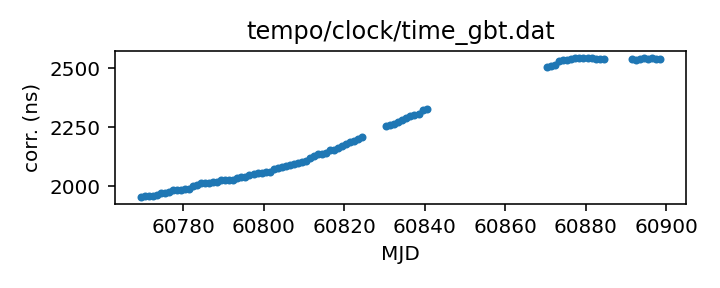
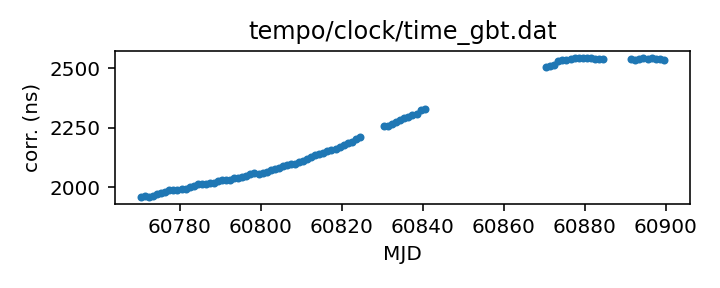
Routine gh-pages update from Github action Wed Aug 13 20:43:59 UTC 2025

diff --git a/status.md b/status.md
@@ -13,18 +13,18 @@ name of each clock file links to a page with more details.
 
 | Name | File | Corrections start | Corrections end | Last check date | Last check result 
 |:--- |:--- | --- | --- | --- |:--- 
-| [GPS to UTC](T2runtime/clock/gps2utc.clk.html) | `T2runtime/clock/gps2utc.clk` | 1993-01-01 MJD 48988.0 | 2025-07-28 MJD 60884.0 | 2025-08-12 | Unchanged 
-| [GPS to UTC (Combined Clock)](T2runtime/clock/gps2utc_cc.clk.html) | `T2runtime/clock/gps2utc_cc.clk` | 1993-01-01 MJD 48988.0 | 2025-07-28 MJD 60884.0 | 2025-08-12 | Unchanged 
-| [GPS to UTC (Corrected)](T2runtime/clock/gps2utc_c0p.clk.html) | `T2runtime/clock/gps2utc_c0p.clk` | 2010-12-29 MJD 55559.0 | 2025-07-28 MJD 60884.0 | 2025-08-12 | Unchanged 
-| [GBT](tempo/clock/time_gbt.dat.html) | `tempo/clock/time_gbt.dat` | 2000-12-31 MJD 51909.5 | 2025-08-11 MJD 60898.5 | 2025-08-12 | Updated 
-| [GBT (TEMPO2 converted from TEMPO)](T2runtime/clock/gbt2gps.clk.html) | `T2runtime/clock/gbt2gps.clk` | 2000-12-31 MJD 51909.5 | 2024-05-18 MJD 60448.5 | 2025-08-12 | **Validation failed** 
+| [GPS to UTC](T2runtime/clock/gps2utc.clk.html) | `T2runtime/clock/gps2utc.clk` | 1993-01-01 MJD 48988.0 | 2025-07-28 MJD 60884.0 | 2025-08-13 | Unchanged 
+| [GPS to UTC (Combined Clock)](T2runtime/clock/gps2utc_cc.clk.html) | `T2runtime/clock/gps2utc_cc.clk` | 1993-01-01 MJD 48988.0 | 2025-07-28 MJD 60884.0 | 2025-08-13 | Unchanged 
+| [GPS to UTC (Corrected)](T2runtime/clock/gps2utc_c0p.clk.html) | `T2runtime/clock/gps2utc_c0p.clk` | 2010-12-29 MJD 55559.0 | 2025-07-28 MJD 60884.0 | 2025-08-13 | Unchanged 
+| [GBT](tempo/clock/time_gbt.dat.html) | `tempo/clock/time_gbt.dat` | 2000-12-31 MJD 51909.5 | 2025-08-12 MJD 60899.5 | 2025-08-13 | Updated 
+| [GBT (TEMPO2 converted from TEMPO)](T2runtime/clock/gbt2gps.clk.html) | `T2runtime/clock/gbt2gps.clk` | 2000-12-31 MJD 51909.5 | 2024-05-18 MJD 60448.5 | 2025-08-13 | **Validation failed** 
 | [Jodrell Bank](T2runtime/clock/jb2gps.clk.html) | `T2runtime/clock/jb2gps.clk` | 2006-10-13 MJD 54021.4 | 2024-11-07 MJD 60621.0 | 2025-08-11 | Unchanged 
 | [Jodrell Bank Roach](T2runtime/clock/jbroach2jb.clk.html) | `T2runtime/clock/jbroach2jb.clk` | 2006-10-13 MJD 54021.4 | 2018-03-20 MJD 58197.6 | 2025-08-11 | Unchanged 
 | [Jodrell Bank DFB](T2runtime/clock/jbdfb2jb.clk.html) | `T2runtime/clock/jbdfb2jb.clk` | 2006-10-13 MJD 54021.4 | 2021-02-22 MJD 59268.0 | 2025-08-11 | Unchanged 
 | [Meerkat (observatory)](T2runtime/clock/mk2utc_observatory.clk.html) | `T2runtime/clock/mk2utc_observatory.clk` | 2019-01-01 MJD 58484.0 | 2025-08-01 MJD 60889.0 | 2025-08-11 | Updated 
-| [Leap seconds](tempo/clock/leap.sec.html) | `tempo/clock/leap.sec` | 1972-07-01 MJD 41499.0 | 2017-01-01 MJD 57754.0 | 2025-08-12 | Unchanged 
-| [UT1 table](tempo/clock/ut1.dat.html) | `tempo/clock/ut1.dat` | 1973-01-02 MJD 41684.0 | 2026-08-15 MJD 61267.0 | 2025-08-12 | Unchanged 
-| [UT1 table](T2runtime/clock/ut1.dat.html) | `T2runtime/clock/ut1.dat` | 1973-01-02 MJD 41684.0 | 2026-08-15 MJD 61267.0 | 2025-08-12 | Unchanged 
+| [Leap seconds](tempo/clock/leap.sec.html) | `tempo/clock/leap.sec` | 1972-07-01 MJD 41499.0 | 2017-01-01 MJD 57754.0 | 2025-08-13 | Unchanged 
+| [UT1 table](tempo/clock/ut1.dat.html) | `tempo/clock/ut1.dat` | 1973-01-02 MJD 41684.0 | 2026-08-15 MJD 61267.0 | 2025-08-13 | Unchanged 
+| [UT1 table](T2runtime/clock/ut1.dat.html) | `T2runtime/clock/ut1.dat` | 1973-01-02 MJD 41684.0 | 2026-08-15 MJD 61267.0 | 2025-08-13 | Unchanged 
 
 
 

diff --git a/T2runtime/clock/gbt2gps.clk.md b/T2runtime/clock/gbt2gps.clk.md
@@ -25,12 +25,11 @@ If questions arise about the conversion, contact Anne Archibald
 | Clock file start | 2000-12-31 MJD 51909.5 |
 | Clock file end | 2024-05-18 MJD 60448.5 |
 | Update interval (days) | 1 |
-| Last update attempt | 2025-08-12 |
+| Last update attempt | 2025-08-13 |
 | Last update result | Validation failed |
 
 Log entries from the last few update attempts:
 ```
-2025-08-03 20:44:46.538 - Validation failed: New version of T2runtime/clock/gbt2gps.clk MJDs differ from old version where they overlap in 8407 places
 2025-08-04 20:46:54.340 - Validation failed: New version of T2runtime/clock/gbt2gps.clk MJDs differ from old version where they overlap in 8407 places
 2025-08-05 20:45:22.428 - Validation failed: New version of T2runtime/clock/gbt2gps.clk MJDs differ from old version where they overlap in 8407 places
 2025-08-06 20:45:57.527 - Validation failed: New version of T2runtime/clock/gbt2gps.clk MJDs differ from old version where they overlap in 8407 places
@@ -40,6 +39,7 @@ Log entries from the last few update attempts:
 2025-08-10 20:42:39.050 - Validation failed: New version of T2runtime/clock/gbt2gps.clk MJDs differ from old version where they overlap in 8407 places
 2025-08-11 20:42:40.850 - Validation failed: New version of T2runtime/clock/gbt2gps.clk MJDs differ from old version where they overlap in 8407 places
 2025-08-12 20:43:47.213 - Validation failed: New version of T2runtime/clock/gbt2gps.clk MJDs differ from old version where they overlap in 8407 places
+2025-08-13 20:43:27.622 - Validation failed: New version of T2runtime/clock/gbt2gps.clk MJDs differ from old version where they overlap in 8407 places
 ```
 [Full log](https://raw.githubusercontent.com/ipta/pulsar-clock-corrections/main/log/T2runtime/clock/gbt2gps.clk.log)
 

diff --git a/tempo/clock/time_gbt.dat.md b/tempo/clock/time_gbt.dat.md
@@ -36,14 +36,13 @@ If questions arise, contact Ryan S. Lynch <rlynch@nrao.edu>.
 | Format | tempo |
 | Bogus last correction | False |
 | Clock file start | 2000-12-31 MJD 51909.5 |
-| Clock file end | 2025-08-11 MJD 60898.5 |
+| Clock file end | 2025-08-12 MJD 60899.5 |
 | Update interval (days) | 1 |
-| Last update attempt | 2025-08-12 |
+| Last update attempt | 2025-08-13 |
 | Last update result | Updated |
 
 Log entries from the last few update attempts:
 ```
-2025-08-03 20:44:46.478 - Updated
 2025-08-04 20:46:53.897 - Updated
 2025-08-05 20:45:22.370 - Updated
 2025-08-06 20:45:57.468 - Updated
@@ -53,12 +52,13 @@ Log entries from the last few update attempts:
 2025-08-10 20:42:38.991 - Updated
 2025-08-11 20:42:40.398 - Updated
 2025-08-12 20:43:47.154 - Updated
+2025-08-13 20:43:27.558 - Updated
 ```
 [Full log](https://raw.githubusercontent.com/ipta/pulsar-clock-corrections/main/log/tempo/clock/time_gbt.dat.log)
 
 Leading comments from clock file:
 
-     -2271.50       0.0        -0.486 1    32764-dec
+     -2271.50       0.0        -0.486 1    32767-dec
 
 
 

diff --git a/T2runtime/clock/gps2utc_c0p.clk.md b/T2runtime/clock/gps2utc_c0p.clk.md
@@ -30,12 +30,11 @@ about the BIPM's published corrections, contact <tai@bipm.org>.
 | Clock file start | 2010-12-29 MJD 55559.0 |
 | Clock file end | 2025-07-28 MJD 60884.0 |
 | Update interval (days) | 1 |
-| Last update attempt | 2025-08-12 |
+| Last update attempt | 2025-08-13 |
 | Last update result | Unchanged |
 
 Log entries from the last few update attempts:
 ```
-2025-08-03 20:44:45.384 - Unchanged
 2025-08-04 20:46:53.566 - Unchanged
 2025-08-05 20:45:21.465 - Unchanged
 2025-08-06 20:45:57.142 - Unchanged
@@ -45,6 +44,7 @@ Log entries from the last few update attempts:
 2025-08-10 20:42:38.603 - Unchanged
 2025-08-11 20:42:40.113 - Unchanged
 2025-08-12 20:43:46.614 - Unchanged
+2025-08-13 20:43:26.663 - Unchanged
 ```
 [Full log](https://raw.githubusercontent.com/ipta/pulsar-clock-corrections/main/log/T2runtime/clock/gps2utc_c0p.clk.log)
 

diff --git a/T2runtime/clock/gps2utc_cc.clk.md b/T2runtime/clock/gps2utc_cc.clk.md
@@ -29,12 +29,11 @@ about the BIPM's published corrections, contact <tai@bipm.org>.
 | Clock file start | 1993-01-01 MJD 48988.0 |
 | Clock file end | 2025-07-28 MJD 60884.0 |
 | Update interval (days) | 1 |
-| Last update attempt | 2025-08-12 |
+| Last update attempt | 2025-08-13 |
 | Last update result | Unchanged |
 
 Log entries from the last few update attempts:
 ```
-2025-08-03 20:44:45.376 - Unchanged
 2025-08-04 20:46:53.558 - Unchanged
 2025-08-05 20:45:21.457 - Unchanged
 2025-08-06 20:45:57.134 - Unchanged
@@ -44,6 +43,7 @@ Log entries from the last few update attempts:
 2025-08-10 20:42:38.595 - Unchanged
 2025-08-11 20:42:40.104 - Unchanged
 2025-08-12 20:43:46.606 - Unchanged
+2025-08-13 20:43:26.655 - Unchanged
 ```
 [Full log](https://raw.githubusercontent.com/ipta/pulsar-clock-corrections/main/log/T2runtime/clock/gps2utc_cc.clk.log)
 

diff --git a/T2runtime/clock/gps2utc.clk.md b/T2runtime/clock/gps2utc.clk.md
@@ -32,12 +32,11 @@ about the BIPM's published corrections, contact <tai@bipm.org>.
 | Clock file start | 1993-01-01 MJD 48988.0 |
 | Clock file end | 2025-07-28 MJD 60884.0 |
 | Update interval (days) | 1 |
-| Last update attempt | 2025-08-12 |
+| Last update attempt | 2025-08-13 |
 | Last update result | Unchanged |
 
 Log entries from the last few update attempts:
 ```
-2025-08-03 20:44:45.353 - Unchanged
 2025-08-04 20:46:53.536 - Unchanged
 2025-08-05 20:45:21.435 - Unchanged
 2025-08-06 20:45:57.113 - Unchanged
@@ -47,6 +46,7 @@ Log entries from the last few update attempts:
 2025-08-10 20:42:38.573 - Unchanged
 2025-08-11 20:42:40.082 - Unchanged
 2025-08-12 20:43:46.584 - Unchanged
+2025-08-13 20:43:26.632 - Unchanged
 ```
 [Full log](https://raw.githubusercontent.com/ipta/pulsar-clock-corrections/main/log/T2runtime/clock/gps2utc.clk.log)
 

diff --git a/T2runtime/clock/ut1.dat.md b/T2runtime/clock/ut1.dat.md
@@ -30,12 +30,11 @@ If there are any questions, contact Anne Archibald
 | File start | 1973-01-02 MJD 41684.0 |
 | File end | 2026-08-15 MJD 61267.0 |
 | Update interval (days) | 0 |
-| Last update attempt | 2025-08-12 |
+| Last update attempt | 2025-08-13 |
 | Last update result | Unchanged |
 
 Log entries from the last few update attempts:
 ```
-2025-08-03 20:45:01.397 - Unchanged
 2025-08-04 20:47:45.072 - Unchanged
 2025-08-05 20:45:36.915 - Unchanged
 2025-08-06 20:46:05.550 - Unchanged
@@ -45,5 +44,6 @@ Log entries from the last few update attempts:
 2025-08-10 20:42:46.894 - Unchanged
 2025-08-11 20:43:06.984 - Unchanged
 2025-08-12 20:43:57.000 - Unchanged
+2025-08-13 20:43:43.837 - Unchanged
 ```
 [Full log](https://raw.githubusercontent.com/ipta/pulsar-clock-corrections/main/log/T2runtime/clock/ut1.dat.log)

diff --git a/tempo/clock/leap.sec.md b/tempo/clock/leap.sec.md
@@ -21,12 +21,11 @@ If there are any questions, contact Anne Archibald
 | File start | 1972-07-01 MJD 41499.0 |
 | File end | 2017-01-01 MJD 57754.0 |
 | Update interval (days) | 0 |
-| Last update attempt | 2025-08-12 |
+| Last update attempt | 2025-08-13 |
 | Last update result | Unchanged |
 
 Log entries from the last few update attempts:
 ```
-2025-08-03 20:44:46.563 - Unchanged
 2025-08-04 20:47:33.801 - Unchanged
 2025-08-05 20:45:22.454 - Unchanged
 2025-08-06 20:45:57.552 - Unchanged
@@ -36,5 +35,6 @@ Log entries from the last few update attempts:
 2025-08-10 20:42:39.077 - Unchanged
 2025-08-11 20:42:57.316 - Unchanged
 2025-08-12 20:43:47.238 - Unchanged
+2025-08-13 20:43:27.648 - Unchanged
 ```
 [Full log](https://raw.githubusercontent.com/ipta/pulsar-clock-corrections/main/log/tempo/clock/leap.sec.log)

diff --git a/tempo/clock/ut1.dat.md b/tempo/clock/ut1.dat.md
@@ -30,12 +30,11 @@ If there are any questions, contact Anne Archibald
 | File start | 1973-01-02 MJD 41684.0 |
 | File end | 2026-08-15 MJD 61267.0 |
 | Update interval (days) | 0 |
-| Last update attempt | 2025-08-12 |
+| Last update attempt | 2025-08-13 |
 | Last update result | Unchanged |
 
 Log entries from the last few update attempts:
 ```
-2025-08-03 20:45:01.344 - Unchanged
 2025-08-04 20:47:45.022 - Unchanged
 2025-08-05 20:45:36.865 - Unchanged
 2025-08-06 20:46:05.501 - Unchanged
@@ -45,5 +44,6 @@ Log entries from the last few update attempts:
 2025-08-10 20:42:46.844 - Unchanged
 2025-08-11 20:43:06.934 - Unchanged
 2025-08-12 20:43:56.951 - Unchanged
+2025-08-13 20:43:43.787 - Unchanged
 ```
 [Full log](https://raw.githubusercontent.com/ipta/pulsar-clock-corrections/main/log/tempo/clock/ut1.dat.log)
